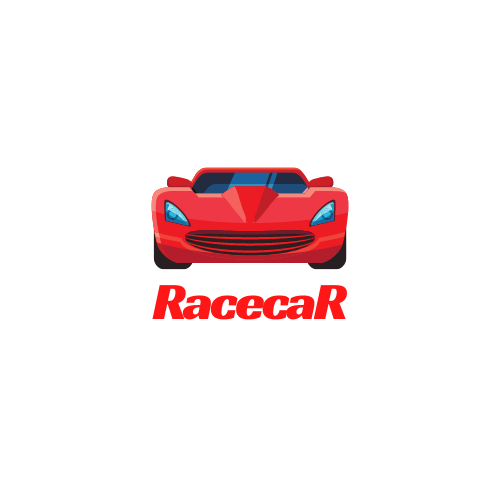
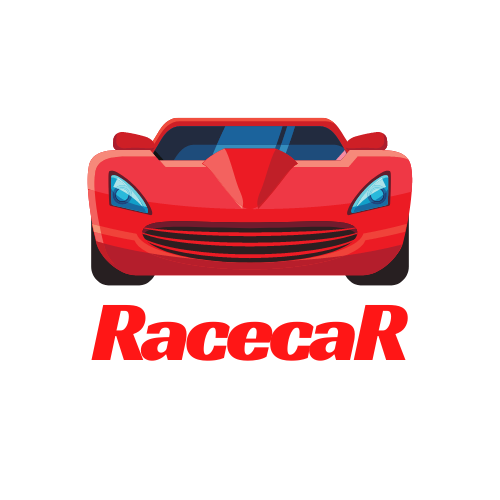
removed appLogo styling, added social links

Changed region(s): [[0.15, 0.21, 0.84, 0.72]]

diff --git a/index.html b/index.html
@@ -65,7 +65,9 @@
                 <a class="nav-link" href="/code.html">The Code</a>
               </li>
               <li class="nav-item">
-                <a class="nav-link" href="https://github.com/aDOTyang/racecar">The Repo</a>
+                <a class="nav-link" href="https://github.com/aDOTyang/racecar"
+                  >The Repo</a
+                >
               </li>
               <li class="nav-item">
                 <a class="nav-link" href="https://alexyang.netlify.app/"
@@ -84,7 +86,7 @@
     <main class="content container">
       <div class="row row-cols-1 row-cols-md-2 h-100 align-items-center">
         <div class="col mt-5 mt-md-0">
-          <h1 class="display-5">RacecaR: Coding Challenge</h1>
+          <h1 class="display-5">RacecaR: A Coding Challenge</h1>
           <h4 class="lead">Project description</h4>
           <ul class="checkList">
             <li>
@@ -136,7 +138,7 @@
         <div class="col order-first order-md-last text-center">
           <img
             src="/img/RacecaR_500x500.png"
-            class="img-fluid appLogo"
+            class="img-fluid"
             alt="app logo" />
         </div>
       </div>
@@ -152,8 +154,12 @@
             <img src="/img/AYdark_250x100.png" height="50" />
           </div>
           <div class="col text-center text-lg-end order-0 order-lg-last">
-            <a href="#"><i class="bi bi-linkedin socialIcon"></i></a>
-            <a href="#"><i class="bi bi-github socialIcon"></i></a>
+            <a href="https://www.linkedin.com/in/alexyanglinked/"
+              ><i class="bi bi-linkedin socialIcon"></i
+            ></a>
+            <a href="https://www.github.com/aDOTyang"
+              ><i class="bi bi-github socialIcon"></i
+            ></a>
           </div>
         </div>
       </div>

diff --git a/app.html b/app.html
@@ -62,7 +62,9 @@
                 <a class="nav-link" href="/code.html">The Code</a>
               </li>
               <li class="nav-item">
-                <a class="nav-link" href="https://github.com/aDOTyang/racecar">The Repo</a>
+                <a class="nav-link" href="https://github.com/aDOTyang/racecar"
+                  >The Repo</a
+                >
               </li>
               <li class="nav-item">
                 <a class="nav-link" href="https://alexyang.netlify.app/"
